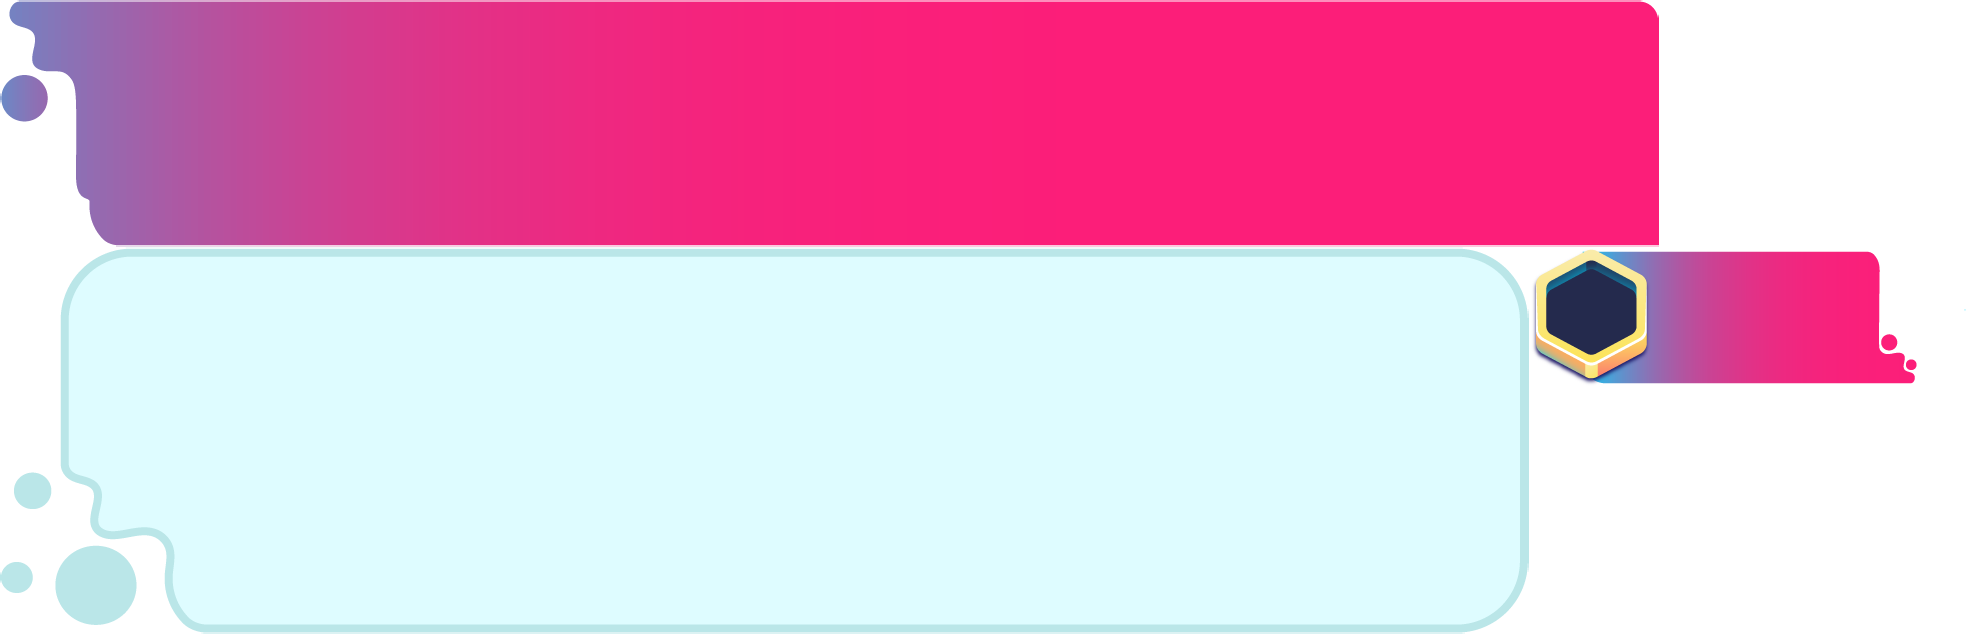
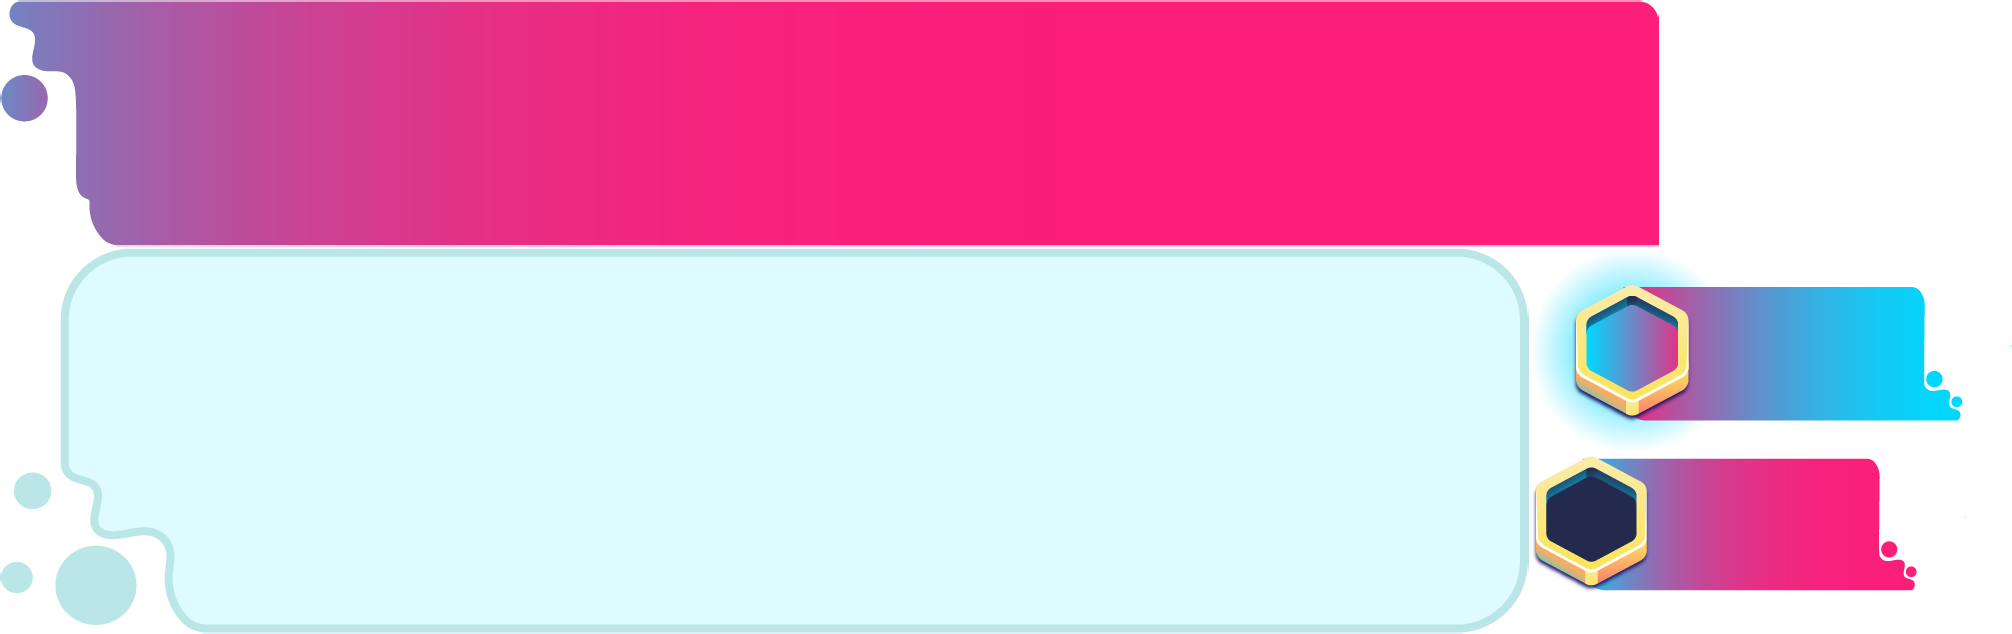
new feedback effect

Changed region(s): [[0.7136, 0.0, 0.9929, 1.0], [0.0621, 0.8391, 0.0931, 0.989]]

diff --git a/src/components/resultsFeedback.js b/src/components/resultsFeedback.js
@@ -94,6 +94,10 @@ var resultsFeedback = function(){
             roundInfo.particles = particles
         }
 
+        var blueAns = createCorrectAns()
+        feedbackGroup.add(blueAns)
+        feedbackGroup.blueAns = blueAns
+
         subGroup.leftTeam = subGroup.children[0]
         subGroup.rightTeam = subGroup.children[1]
         subGroup.setWiner = setWiner.bind(subGroup)
@@ -225,7 +229,47 @@ var resultsFeedback = function(){
         return particle
     }
 
-    function displayResults(event){
+    function createCorrectAns(){
+
+        var blueBtn = game.add.sprite(0, 0, "atlas.question", "blueBtn")
+        blueBtn.anchor.setTo(0.5)
+        blueBtn.alpha = 0
+
+        var txt = new Phaser.Text(blueBtn.game, -137, 0, "B", fontStyle)
+        txt.anchor.setTo(0.5)
+        txt.fill = "#ffffff"
+        blueBtn.addChild(txt)
+        blueBtn.text = txt
+        
+        var info = new Phaser.Text(blueBtn.game, 25, 5, "", fontStyle)
+        info.anchor.setTo(0.5)
+        info.wordWrap = true
+        info.fontSize = 50
+        info.wordWrapWidth = blueBtn.width * 0.5
+        info.fill = "#ffffff"
+        blueBtn.addChild(info)
+        blueBtn.info = info
+
+        blueBtn.setInfo = setInfo.bind(blueBtn)
+        blueBtn.clearInfo = clearInfo.bind(blueBtn)
+        
+        function setInfo(index, info){
+            console.log(index)
+            this.text.setText(OPTIONS_LETTER[index])
+            this.info.setText(info)
+            game.add.tween(this).to({alpha: 1}, 300, Phaser.Easing.Cubic.Out, true)
+        }
+
+        function clearInfo(){
+            this.text.setText("")
+            this.info.setText("")
+            game.add.tween(this).to({alpha: 0}, 500, Phaser.Easing.Cubic.Out, true)
+        }
+
+        return blueBtn
+    }
+
+    function displayResults(event, riddle){
 
         var event = event || {}
 		var answers = event.answers || {}
@@ -243,12 +287,13 @@ var resultsFeedback = function(){
 
         game.add.tween(parent.black).to({alpha:1}, 300, Phaser.Easing.Cubic.Out, true)
         game.add.tween(this).to({alpha:1}, 300, Phaser.Easing.Cubic.Out, true)
+        parent.blueAns.setInfo(riddle.correctAnswer, riddle.correctValue)
 
         for(var i = 0; i < this.length; i++){
 
 			var newScale = convertScale(players[i].time)
             var ansTime = convertTimeFormat(players[i].time)
-            var correct = players[i].value == event.correctAnswer
+            var correct = numTeam == (i + 1) ? true : false //players[i].value == event.correctAnswer
 
 			var score = this.children[i]
 			score.timeTxt.setText(ansTime)
@@ -310,12 +355,17 @@ var resultsFeedback = function(){
         self.attack.loadTexture("atlas.feedback", attack)
         self.attack.x = winSide.x
         self.attack.y = winSide.y
-        
-        var fadeIn = game.add.tween(self.attack).to({alpha: 1}, 400, Phaser.Easing.Cubic.Out, true, 2300)
-        fadeIn.yoyo(true, 1000)
-        fadeIn.onComplete.add(function(){
+
+        var apear = game.add.tween(self.attack.scale).from({x: 0,y: 0}, 300, Phaser.Easing.Elastic.Out, true, 2300)
+        apear.onStart.add(function(){
+            self.attack.alpha = 1
+        })
+
+        var fadeOut = game.add.tween(self.attack).to({alpha: 0}, 300, Phaser.Easing.Cubic.InOut, false, 800)
+        fadeOut.onComplete.add(function(){
             self.winCallback(index, attack)
         })
+        apear.chain(fadeOut)
     }
 
     function setLoser(loseSide, tie){
@@ -327,10 +377,12 @@ var resultsFeedback = function(){
         fadeOut.onStart.add(function(){
             self.loserCallback()
             game.add.tween(loseSide.parent.parent.black).to({alpha: 0}, 1000, Phaser.Easing.Cubic.Out, true)
+            self.parent.blueAns.clearInfo()
         })
         fadeOut.onComplete.add(self.clearInfo)
         
-		game.add.tween(loseSide).to({angle: 50 * loseSide.twist}, 1000, Phaser.Easing.Bounce.Out, true, 3000).chain(fadeOut)
+        var hangOff = game.add.tween(loseSide).to({angle: 50 * loseSide.twist}, 1000, Phaser.Easing.Bounce.Out, true, 3000)
+        hangOff.chain(fadeOut)
         game.add.tween(loseSide.timeDif).from({y: 30}, 400, Phaser.Easing.Cubic.Out, true, 2500)
     }
 
@@ -383,7 +435,7 @@ var resultsFeedback = function(){
             roundInfo.timeTxt.alpha = 0
             roundInfo.token.restore()
             roundInfo.timeBar.restore()
-		}
+        }
     }
     
     return{ 

diff --git a/src/entities/battleField.js b/src/entities/battleField.js
@@ -95,7 +95,7 @@ var battleField = function(){
     }
     
     function createListosYa(){
-        
+
         var listosYaGroup = game.add.group()
         
         var listos = listosYaGroup.create(game.world.centerX, -150, "listos")
@@ -110,82 +110,10 @@ var battleField = function(){
         return listosYaGroup
     }
     
-    function createScores(SIDES, pos){
-        
-        var fontStyle = {font: "60px VAGRounded", fontWeight: "bold", fill: "#000066", align: "center"}
-        
-        var answersGroup = game.add.group()
-        answersGroup.y = -130
-        
-        for(var i = 0; i < 2; i++){
-        
-            var side = SIDES[i]
-
-            var teamScore = game.add.group()
-            teamScore.x = pos[i].x
-            teamScore.time = 0
-            teamScore.direction = side.direction
-            answersGroup.add(teamScore)
-            
-            var timeDif = new Phaser.Text(teamScore.game, 50 * side.direction, -70, "-2 sec", fontStyle)
-            timeDif.anchor.setTo(0.5)
-            timeDif.fill = "#ffff54"
-            timeDif.fontSize = 45
-            timeDif.stroke = "#000066"
-            timeDif.strokeThickness = 10
-            timeDif.alpha = 0
-            teamScore.add(timeDif)
-            teamScore.diference = timeDif
-
-            var timeCont = teamScore.create(0, 0, "atlas.answers", "timeCont")
-            timeCont.anchor.setTo(0.5)
-            timeCont.scale.setTo(side.direction, 1)
-            
-            var timeTxt = new Phaser.Text(teamScore.game, 50 * side.direction, 7, "0:00", fontStyle)
-            timeTxt.anchor.setTo(0.5)
-            timeTxt.alpha = 0
-            teamScore.add(timeTxt)
-            teamScore.timeTxt = timeTxt
-
-            var stock = teamScore.create(200 * side.direction, 0, "atlas.answers", "stock")
-            stock.anchor.setTo(0.5)
-            teamScore.stock = stock
-            
-            var bg = teamScore.create(0, 80, "atlas.answers", "containerBG")
-            bg.anchor.setTo(0.5)
-            
-            var bar = game.add.sprite(110 * side.direction, 0, "atlas.answers", "fillBar")
-            bar.anchor.setTo(i, 0.5)
-            bg.addChild(bar)
-            teamScore.bar = bar
-            
-            var shine = game.add.sprite(0, 0, "atlas.answers", "shineBar")
-            shine.anchor.setTo(0.5)
-            shine.alpha = 0
-            bg.addChild(shine)
-            teamScore.shine = shine
-            
-            var container = game.add.sprite(0, 0, "atlas.answers", "container" + i)
-            container.anchor.setTo(0.5)
-            bg.addChild(container)
-            
-            var particle = game.add.emitter(0, 50, 50);
-            particle.makeParticles("atlas.answers", "bubblePart");
-            particle.gravity = -150;
-            particle.setAlpha(1, 0, 1000, Phaser.Easing.Cubic.In)
-            particle.width = bg.width
-            teamScore.add(particle)
-            teamScore.particles = particle
-        }
-        
-        return answersGroup
-    }
-    
     return{
         createBackground:createBackground,
         createSpecialAttack:createSpecialAttack,
         createListosYa:createListosYa,
-        createScores:createScores
     }
     
 }()

diff --git a/src/scenes/battle/battle.js b/src/scenes/battle/battle.js
@@ -365,28 +365,6 @@ var battle = function(){
 			setNoAnswer()
 		}
         sceneGroup.add(feedbackGroup)
-		
-		
-		// var players = {
-		// 	t1:{
-		// 		time: 7035,
-		// 		value: 0
-		// 	},
-		// 	t2:{
-		// 		time: 6035,
-		// 		value: 0
-		// 	},
-		// }
-
-		// var toSend = {
-		// 	answers: players,
-		// 	numTeam: -1,
-		// 	correctAnswer: 0
-		// }
-
-		// game.time.events.add(5000, function(){
-		// 	checkAnswer(toSend)
-		// })
     }
 
     function createListosYa(){
@@ -824,7 +802,7 @@ var battle = function(){
 			game.time.events.add(1000, changeAnim, null, yogo, anim)
 		}
 
-		feedbackGroup.displayResults(event)
+		feedbackGroup.displayResults(event, questionGroup.riddle)
 	}
     
     function swapYogotars(newParent){
@@ -930,7 +908,7 @@ var battle = function(){
 			createListosYa()
 			//createMenuAnimations()
 			//menubuttons()
-			battleSong = sound.play("battleSong", {loop:true, volume:0.6})
+			battleSong = sound.play("battleSong", {loop:true, volume:0.4})
 			createWhite()
 
 			if(server){

diff --git a/src/sections/battle/servertest.html b/src/sections/battle/servertest.html
@@ -47,6 +47,7 @@
 <script src="../../libs/scripts.js"></script>
 <script src="../../components/alertDialog.js"></script>
 <script src="../../components/HUD.js"></script>
+<script src="../../components/resultsFeedback.js"></script>
 <script src="../../entities/projectiles.js"></script>
 <script src="../../libs/riddles.js"></script>
 <script src="../../components/questionHUD.js"></script>
